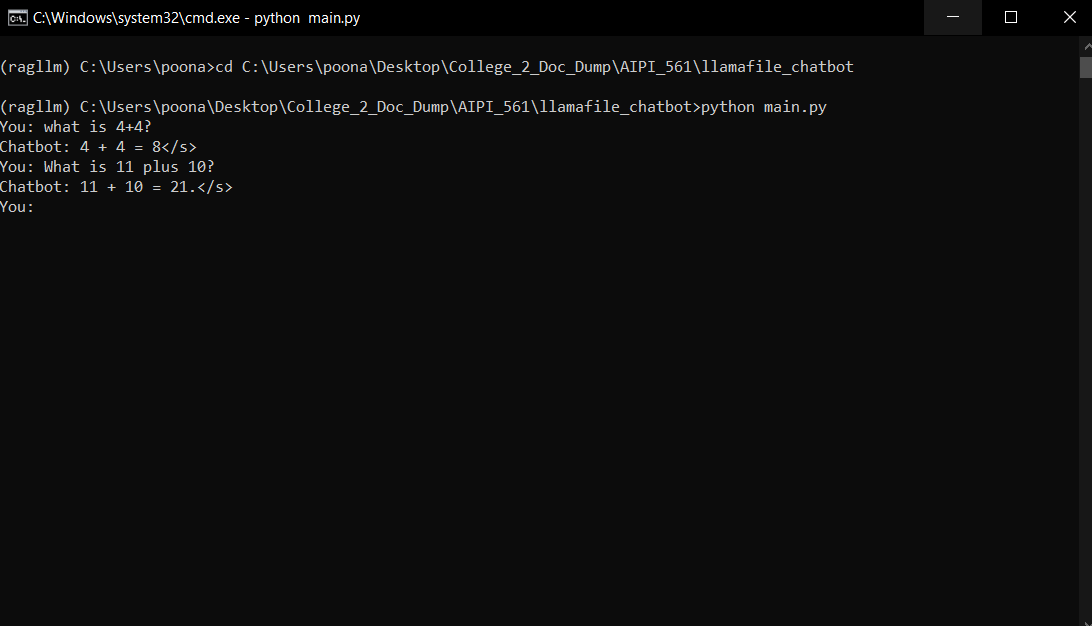
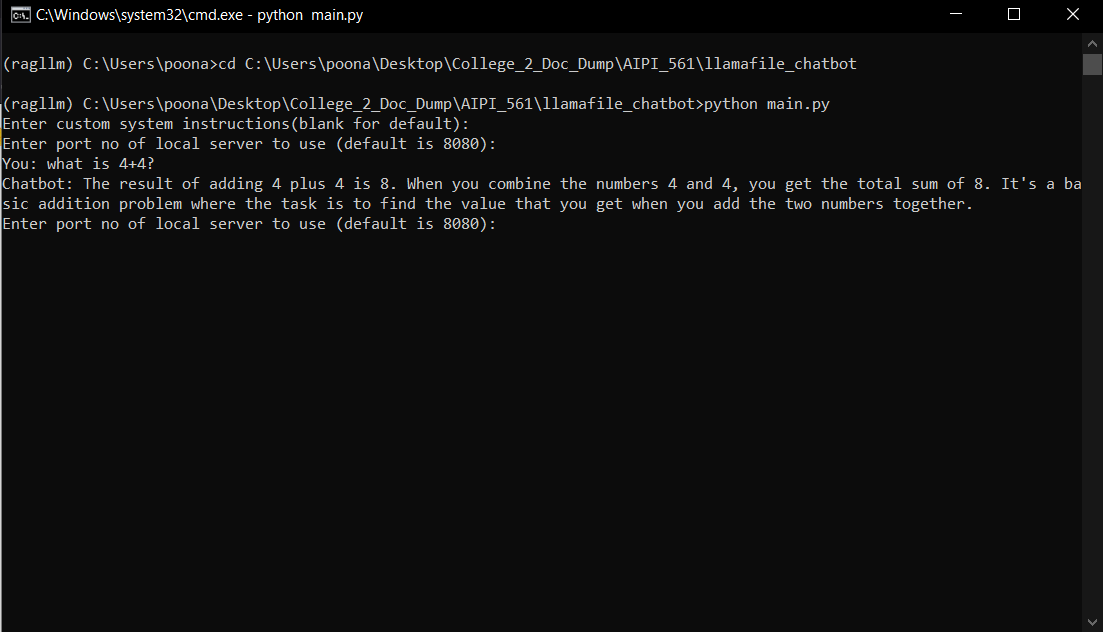
final readme

diff --git a/README.md b/README.md
@@ -1,31 +1,33 @@
 # Ultra-Lightweight Llamafile Chatbot 
 
 ## CI/CD Badge:
-[![CI/CD]](https://github.com/Aryan-Poonacha/llamafile_chatbot/actions)
+![example workflow](https://github.com/Aryan-Poonacha/llamafile_chatbot/actions/workflows/cicd.yml/badge.svg)
 
 ## Demo Video:
 [![Demo Video](LINK_TO_YOUR_DEMO_VIDEO)](LINK_TO_YOUR_DEMO_VIDEO)
 
 ## Project Purpose
 
-This is a minimal chatbot application with all parameters, model selection, and relevant application decisions tuned such that that a tinyllama `llamafile` model can be used to create a simple conversational agent that can be deployed in low compute, low-power edge computing cases. This project would be ideal for deployment on a Raspberry Pi or Arduino use case. A Dockerized container deployment is provided to create the most lightweight docker container for the model.
+This is a minimal chatbot application with all parameters, model selections, and relevant application decisions tuned such that that a tinyllama and Rocket `llamafile` model can be used to create simple conversational agents that can be deployed in low compute, low-power edge computing cases. This project would be ideal for deployment on a Raspberry Pi or Arduino use case. A Dockerized container deployment is provided to create the most lightweight docker container for the model.
 
 ## Architecture
 
 This project utilizes a simple architecture:
 
-- **`main.py`:** Contains the core logic to run the chatbot, interacting with the llamafile model and the local server that it deploys.
-- **`llamafile/TinyLlama-1.1B-Chat-v1.0.F16.llamafile`:** (Not included in the repository) The pre-trained language model used by the chatbot. Run within the WSL container on Windows.
--**app.py**: The script for the streamlit frontend interface to interact.
+- **`main.py`:** Contains the core logic to run the chatbot, interacting with the llamafile model and the local server that it deploys through a CLI interface.
+- **`llamafile/TinyLlama-1.1B-Chat-v1.0.F16.llamafile`:** (Not included in the repository) The pre-trained language model used by the chatbot. Run within the WSL container on Windows or directly on Mac/Linux.
+-**app.py**: The script for the streamlit frontend interface to interact with the chatbot. This is used for the Docker container as it is the main functional part of the application.
 - **Docker:** The application is packaged into a Docker container for easy deployment.
 
 ### Architecture Diagram
+
+![Diagram](img/diagram.png)
 
 ## Setup and Running
 
 1. **Prerequisites:**
    - Install [Docker](https://docs.docker.com/get-docker/).
-   - Download the `TinyLlama-1.1B-Chat-v1.0.F16.llamafile` model from [https://github.com/Mozilla-Ocho/llamafile#other-example-llamafiles](https://github.com/Mozilla-Ocho/llamafile#other-example-llamafiles) and place it in the root of the project directory inside the 'llamafile' folder.
+   - Download the `TinyLlama-1.1B-Chat-v1.0.F16.llamafile` model from [https://github.com/Mozilla-Ocho/llamafile#other-example-llamafiles](https://github.com/Mozilla-Ocho/llamafile#other-example-llamafiles) and place it in the root of the project directory inside the 'llamafile' folder. Download any other llamafiles for other models that you want to use. For this use case, the TinyLlama-1.1B-Chat and rocket-3b.Q5 models were chosen as the optimal smallest high performance models for this use case, and are the ones I would recommend.
 
 2. **Launch TinyLlama Local Server:**
    - On Mac/Linux, provide permission to launch the llamafile with `chmod +x TinyLlama-1.1B-Chat-v1.0.F16.llamafile`. Then, navigate to the directory and run the file with `./llava-v1.5-7b-q4.llamafile`. This will launch the locallama server.
@@ -37,6 +39,8 @@ This project utilizes a simple architecture:
 3. **Interact Locally via CLI:**
    - Navigate to the project directory in your terminal.
    - Run `python main.py`.
+   - Specify a custom system prompt if desired.
+   - Choose the server port to choose the model you wish to use.
    - Start chatting!
 
 ![Streamlit](img/cmd.PNG)
@@ -47,6 +51,8 @@ The project also includes a web interface created using streamlit to keep track 
    - Navigate to the project directory in your terminal.
    - Run `streamlit run app.py`.
    - The streamlit interface will launch in your default browser.
+   - Specify a custom system prompt if desired.
+   - Choose the server port to choose the model you wish to use.
    - Start chatting!
 
 ![Streamlit](img/streamlit.PNG)
@@ -87,33 +93,45 @@ python
 
 ## Performance/Evaluation 
 
-(Add any performance observations or benchmarks here. For a simple project like this, focus on qualitative aspects like response time and coherence).
+We cite some of the performance numbers for TinyLlama and Rocket with a number of benchmarks to justify our model choice below.
+
+1. TinyLlama:
+
+![alt text](benchmark1.png)
+[Source](https://huggingface.co/TinyLlama/TinyLlama_v1.1)
+
+2. Rocket:
+
+![benchmarks](https://cdn-uploads.huggingface.co/production/uploads/6501bfe0493fd9c8c2e32402/5Tv4-4w4zNKAAjiLNGu7A.png)
+[Source](https://huggingface.co/pansophic/rocket-3B)
 
 ## CI/CD Pipeline Github Actions
 
-Things included are:
+The CI/CD pipeline for this project is managed using GitHub Actions. The workflow is triggered on push events to the main branch, pull requests to the main branch, and manual workflow dispatches.
 
-* `Makefile`
+Here is a brief overview of the steps involved in the pipeline:
 
-* `Pytest`
+Checkout: The workflow starts by checking out the latest code from the repository.
 
-* `pandas`
+Install Packages: The necessary packages are installed by running the make install command. This command upgrades pip and installs the requirements specified in the requirements.txt file.
 
-* `Ruff`:  
+Lint: The make lint command is run to perform linting checks on the Python files in the repository.
 
-Run `make lint` which runs `ruff check`.  You can find out more info on [Ruff here](https://github.com/astral-sh/ruff).
+Test: Unit tests are executed by running the make test command. This command runs all the test cases present in the tests directory.
 
-* `Dockerfile`
+Format: The Python files are formatted using the black formatter by running the make format command.
 
-* `GitHub copilot`
+Set up Docker Buildx: Docker Buildx is set up using the docker/setup-buildx-action@v1 action. Docker Buildx is a CLI plugin that extends the docker build command with the full support of the features provided by Moby BuildKit builder toolkit.
 
-* `jupyter` and `ipython` 
+Login to DockerHub: The workflow logs into DockerHub using the docker/login-action@v1 action. The DockerHub username and token are stored as secrets in the GitHub repository.
+
+Build and Push Docker Image: The Docker image is built and pushed to DockerHub by running the make build && make push commands. The Docker image is tagged with the latest tag.
+
+This pipeline ensures that the code is always in a deployable state and adheres to the standards set by the team. It automates the process of code integration, testing, and deployment, thereby increasing the development speed and reducing the chances of integration problems.
 
 ## Future Improvements
 
-- Implement a more sophisticated chatbot interface (web UI, command-line arguments).
-- Incorporate error handling and edge-case management.
-- Explore more advanced functionalities of the `llamafile` model.
+- Directly integrate into edge computing cases using appropriate hardware.
 
 ## References
 
